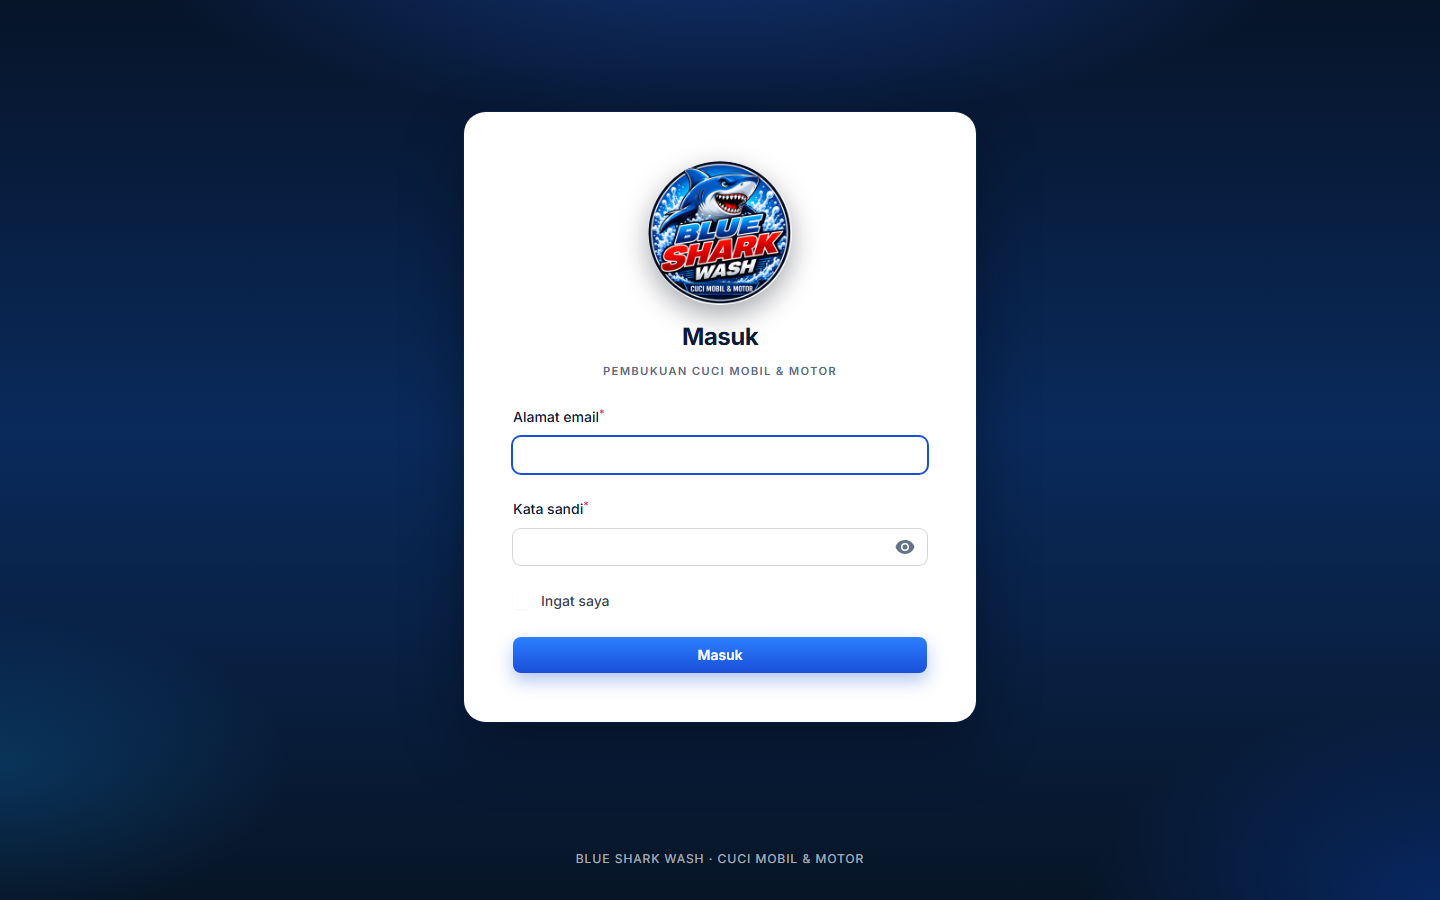
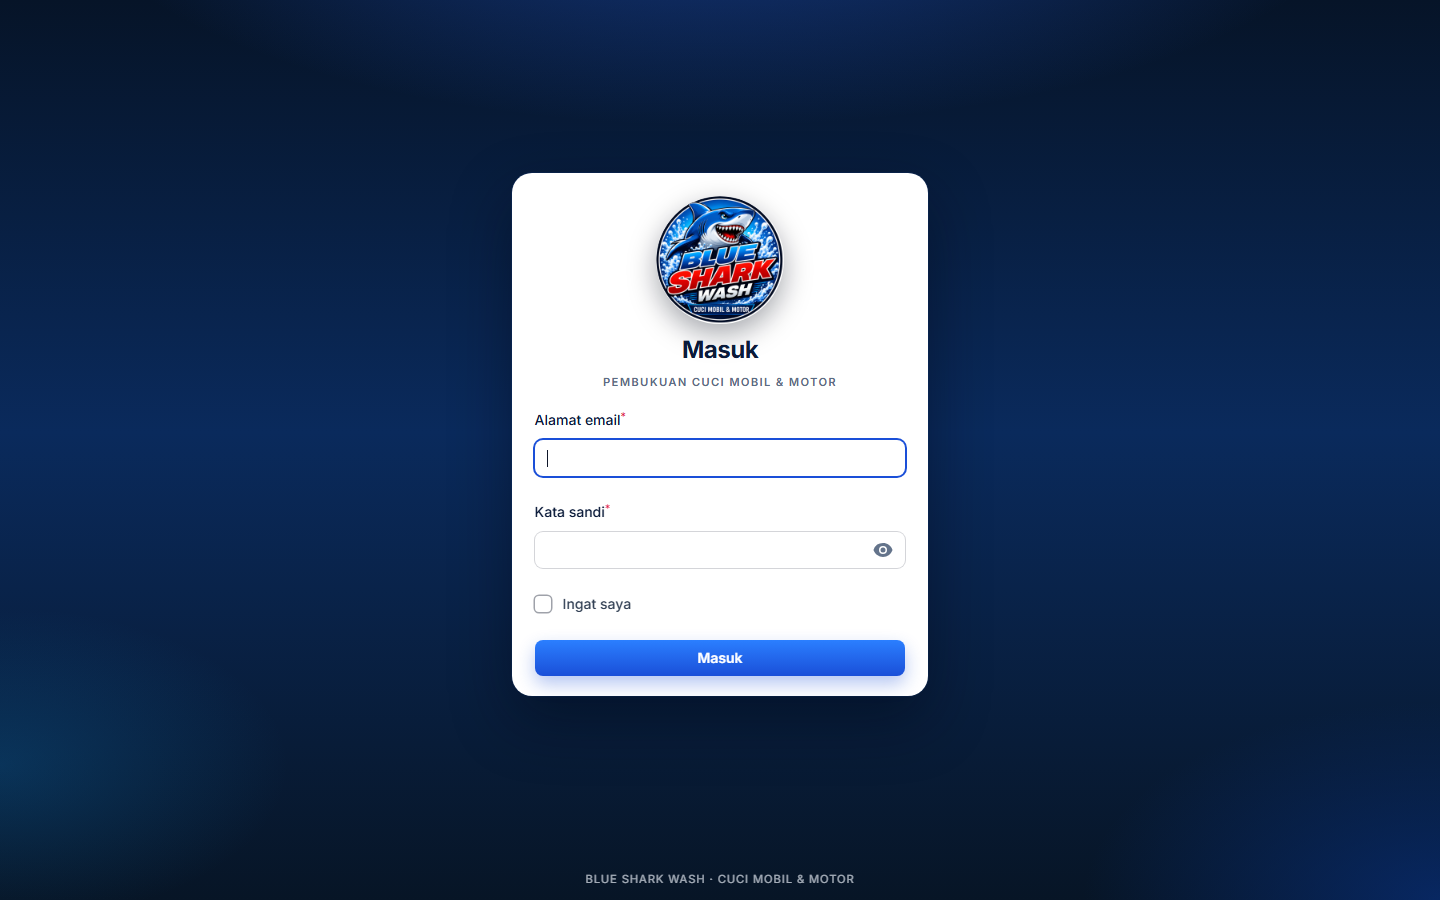
Enhance login page responsiveness and styles. Updated README to include mobile view details, added new screenshots, and improved CSS for better layout and accessibility on various screen sizes.

Changed region(s): [[0.3125, 0.1244, 0.6875, 0.8089], [0.4062, 0.9333, 0.5938, 0.9956]]

diff --git a/resources/views/filament/hooks/login-styles.blade.php b/resources/views/filament/hooks/login-styles.blade.php
@@ -1,5 +1,11 @@
 <style>
     .fi-simple-layout {
+        min-height: 100svh;
+        justify-content: center;
+        padding: 0.75rem 1rem;
+        box-sizing: border-box;
+        overflow-x: hidden;
+        overflow-y: auto;
         background:
             radial-gradient(ellipse 80% 50% at 50% -15%, rgba(37, 99, 235, 0.55), transparent 58%),
             radial-gradient(ellipse 45% 40% at 100% 100%, rgba(8, 47, 123, 0.7), transparent 55%),
@@ -8,12 +14,20 @@
     }
 
     .fi-simple-layout .fi-simple-main-ctn {
-        padding: 1.5rem 1rem 2.5rem;
+        flex-grow: 1;
+        width: 100%;
+        max-width: 26rem;
+        padding: 0 !important;
+        align-items: center;
     }
 
     .fi-simple-layout .fi-simple-main {
+        width: 100% !important;
+        max-width: 26rem;
+        margin: 0 !important;
+        padding: 1.35rem 1.35rem 1.2rem !important;
         background: #fff !important;
-        border-radius: 1.35rem !important;
+        border-radius: 1.25rem !important;
         border: 1px solid rgba(255, 255, 255, 0.18) !important;
         box-shadow:
             0 24px 60px rgba(2, 8, 23, 0.45),
@@ -21,11 +35,16 @@
         transition: box-shadow 200ms ease, transform 200ms ease;
     }
 
+    .fi-simple-layout .fi-simple-page > section {
+        gap: 1rem !important;
+    }
+
     .fi-simple-layout .fi-simple-header .fi-logo {
         height: auto !important;
         width: auto;
         display: flex;
         justify-content: center;
+        margin-bottom: 0.65rem !important;
     }
 
     .fi-simple-layout .brand-mark-copy {
@@ -33,8 +52,8 @@
     }
 
     .fi-simple-layout .brand-mark-logo {
-        height: 9rem;
-        width: 9rem;
+        height: clamp(4.75rem, 16vmin, 8rem);
+        width: clamp(4.75rem, 16vmin, 8rem);
         object-fit: cover;
         border-radius: 50%;
         background: #fff;
@@ -54,6 +73,7 @@
     .fi-simple-layout .fi-simple-header-heading {
         color: #0b1b3a !important;
         letter-spacing: -0.02em;
+        font-size: clamp(1.25rem, 2.4vw, 1.5rem) !important;
     }
 
     .fi-simple-layout .fi-simple-header-subheading {
@@ -62,6 +82,66 @@
         letter-spacing: 0.12em;
         font-size: 0.7rem !important;
         font-weight: 600;
+        margin-top: 0.35rem !important;
+    }
+
+    .fi-simple-layout .fi-simple-main .fi-fo-field-wrp {
+        gap: 0.35rem;
+    }
+
+    .login-brand-foot {
+        margin: 0.85rem 0 0;
+        padding: 0 0.5rem;
+        text-align: center;
+        font-size: 0.7rem;
+        letter-spacing: 0.08em;
+        text-transform: uppercase;
+        color: rgba(226, 232, 240, 0.72);
+    }
+
+    @media (max-width: 480px) {
+        .fi-simple-layout {
+            padding: 0.5rem 0.75rem;
+        }
+
+        .fi-simple-layout .fi-simple-main {
+            padding: 1.1rem 1rem 1rem !important;
+            border-radius: 1rem !important;
+        }
+    }
+
+    @media (max-height: 740px) {
+        .fi-simple-layout .brand-mark-logo {
+            height: 4.5rem;
+            width: 4.5rem;
+        }
+
+        .fi-simple-layout .fi-simple-header .fi-logo {
+            margin-bottom: 0.4rem !important;
+        }
+
+        .fi-simple-layout .fi-simple-page > section {
+            gap: 0.75rem !important;
+        }
+
+        .login-brand-foot {
+            margin-top: 0.6rem;
+        }
+    }
+
+    @media (max-height: 620px) {
+        .fi-simple-layout .brand-mark-logo {
+            height: 3.75rem;
+            width: 3.75rem;
+        }
+
+        .fi-simple-layout .fi-simple-header-heading {
+            font-size: 1.15rem !important;
+        }
+
+        .login-brand-foot {
+            display: none;
+        }
     }
 
     /* Kartu putih: jangan ikut dark mode (label/input putih jadi tenggelam). */
@@ -93,6 +173,28 @@
         -webkit-text-fill-color: #94a3b8;
     }
 
+    .fi-simple-layout .fi-simple-main .fi-checkbox-input {
+        background-color: #fff !important;
+        color: #1a4fd8 !important;
+        box-shadow: 0 0 0 1.5px rgb(15 23 42 / 0.4) !important;
+        border: none !important;
+        transition: background-color 150ms ease, box-shadow 150ms ease;
+    }
+
+    .fi-simple-layout .fi-simple-main .fi-checkbox-input:hover {
+        box-shadow: 0 0 0 1.5px #1a4fd8 !important;
+    }
+
+    .fi-simple-layout .fi-simple-main .fi-checkbox-input:checked {
+        background-color: #1a4fd8 !important;
+        box-shadow: 0 0 0 1.5px #1a4fd8 !important;
+    }
+
+    .fi-simple-layout .fi-simple-main .fi-checkbox-input:focus-visible {
+        outline: 2px solid #1a4fd8;
+        outline-offset: 2px;
+    }
+
     .fi-simple-layout .fi-simple-main .fi-checkbox-input + span,
     .fi-simple-layout .fi-simple-main .fi-fo-checkbox-wrp span {
         color: #334155 !important;
@@ -113,15 +215,6 @@
     .fi-simple-layout .fi-btn.fi-color-primary:focus-visible {
         outline: 2px solid #1a4fd8;
         outline-offset: 3px;
-    }
-
-    .login-brand-foot {
-        margin: 0 0 2rem;
-        text-align: center;
-        font-size: 0.75rem;
-        letter-spacing: 0.08em;
-        text-transform: uppercase;
-        color: rgba(226, 232, 240, 0.72);
     }
 
     .fi-sidebar-header {

diff --git a/README.md b/README.md
@@ -6,9 +6,15 @@ Stack: Laravel 11, Filament 3, MySQL (sesuai environment proyek ini).
 
 ## Tampilan login
 
-Halaman masuk panel admin (`/admin`), dengan logo bundar Blue Shark Wash.
+Halaman masuk panel admin (`/admin`). Kartu login menyesuaikan lebar layar; di layar pendek logo mengecil supaya tidak perlu scroll.
+
+**Desktop**
 
 ![Halaman login Blue Shark Wash](docs/screenshots/login.png)
+
+**Ponsel**
+
+![Halaman login Blue Shark Wash di ponsel](docs/screenshots/login-mobile.png)
 
 ## Menjalankan
 
